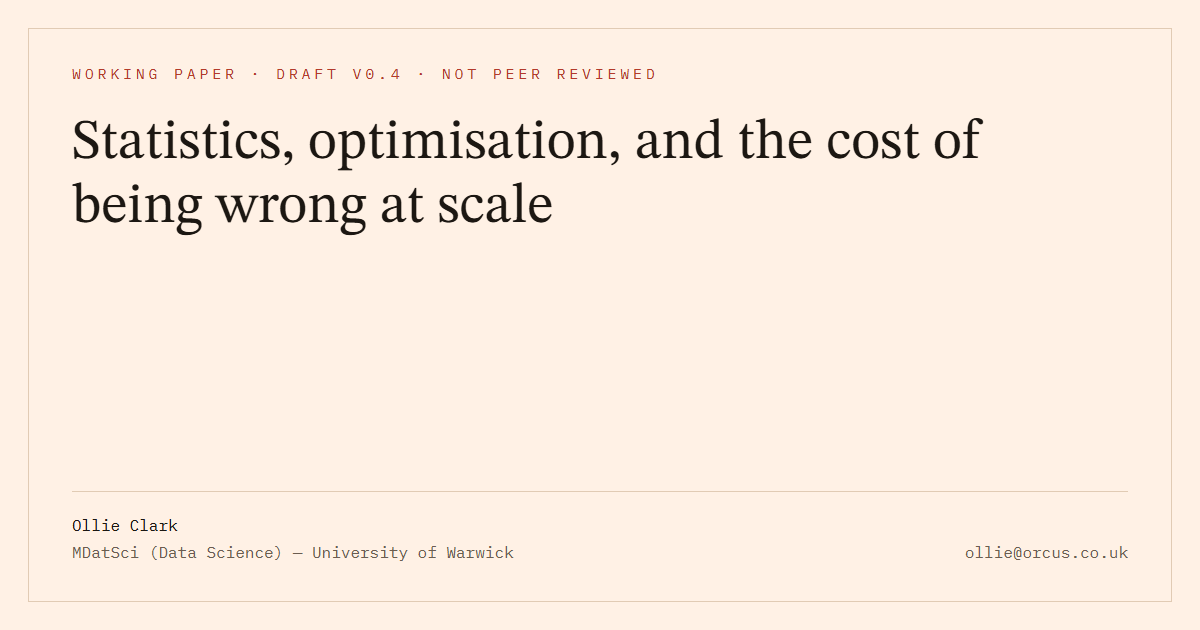
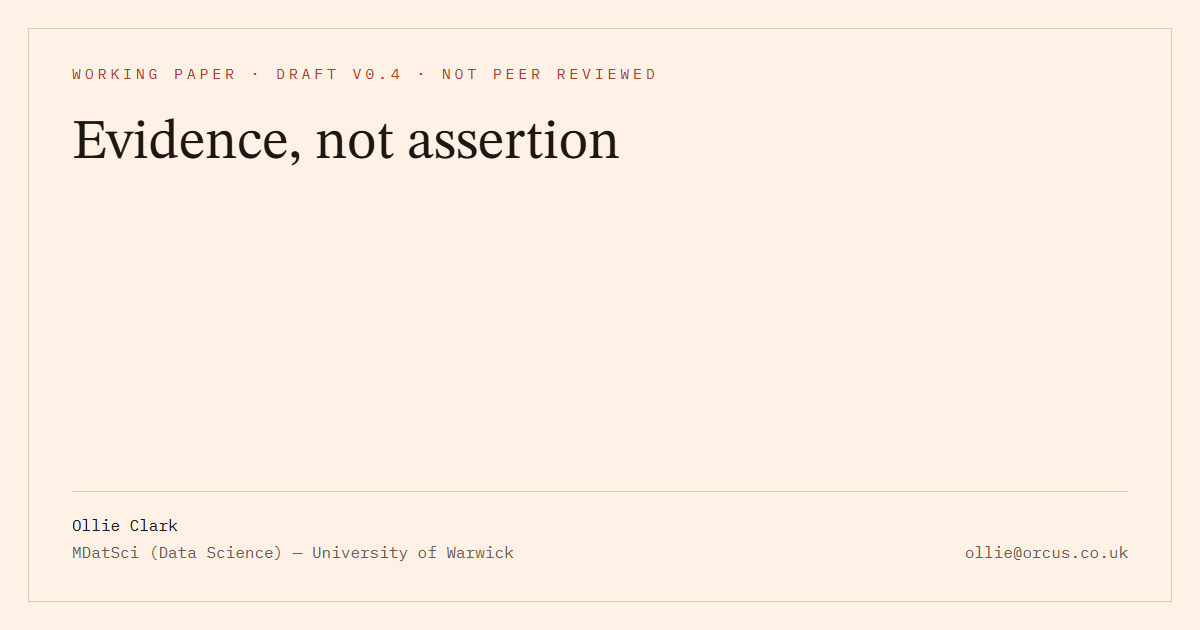
Retitle the paper to "Evidence, not assertion"
Ties directly to the site's own redesign principle (lead with proof over
framing). Updates the hero headline, page title/tab ("Ollie Clark, a
working paper"), OG/Twitter meta description, and the generated preview
image to match.

Changed region(s): [[0.0617, 0.181, 0.8325, 0.2714], [0.0617, 0.3016, 0.4625, 0.3921]]

diff --git a/index.html b/index.html
@@ -5,20 +5,20 @@
     <link rel="icon" type="image/svg+xml" href="/favicon.svg" />
     <meta name="viewport" content="width=device-width, initial-scale=1.0" />
     <meta name="description" content="Data science student at Warwick specialising in quantitative finance — statistics, machine learning, numerical optimisation." />
-    <title>Ollie Clark — working paper</title>
+    <title>Ollie Clark, a working paper</title>
 
     <!-- TODO: replace with your real deployed domain once known -->
     <meta property="og:type" content="website" />
     <meta property="og:url" content="https://ollie-clark.vercel.app/" />
-    <meta property="og:title" content="Ollie Clark — working paper" />
-    <meta property="og:description" content="Statistics, optimisation, and the cost of being wrong at scale — data science student at Warwick specialising in quantitative finance." />
+    <meta property="og:title" content="Ollie Clark, a working paper" />
+    <meta property="og:description" content="MDatSci data science student at Warwick, working at the overlap of statistics and machine learning in quantitative finance." />
     <meta property="og:image" content="https://ollie-clark.vercel.app/og-image.png" />
     <meta property="og:image:width" content="1200" />
     <meta property="og:image:height" content="630" />
 
     <meta name="twitter:card" content="summary_large_image" />
-    <meta name="twitter:title" content="Ollie Clark — working paper" />
-    <meta name="twitter:description" content="Statistics, optimisation, and the cost of being wrong at scale — data science student at Warwick specialising in quantitative finance." />
+    <meta name="twitter:title" content="Ollie Clark, a working paper" />
+    <meta name="twitter:description" content="MDatSci data science student at Warwick, working at the overlap of statistics and machine learning in quantitative finance." />
     <meta name="twitter:image" content="https://ollie-clark.vercel.app/og-image.png" />
 
     <script type="application/ld+json">

diff --git a/src/data/paper.jsx b/src/data/paper.jsx
@@ -19,7 +19,7 @@ const speedupEvidence = (
 );
 
 export const heroTitle = [
-  t("The cost of being wrong, at scale", { cps: 34 }),
+  t("Evidence, not assertion", { cps: 34 }),
   mark("hero-title-done"),
 ];
 
